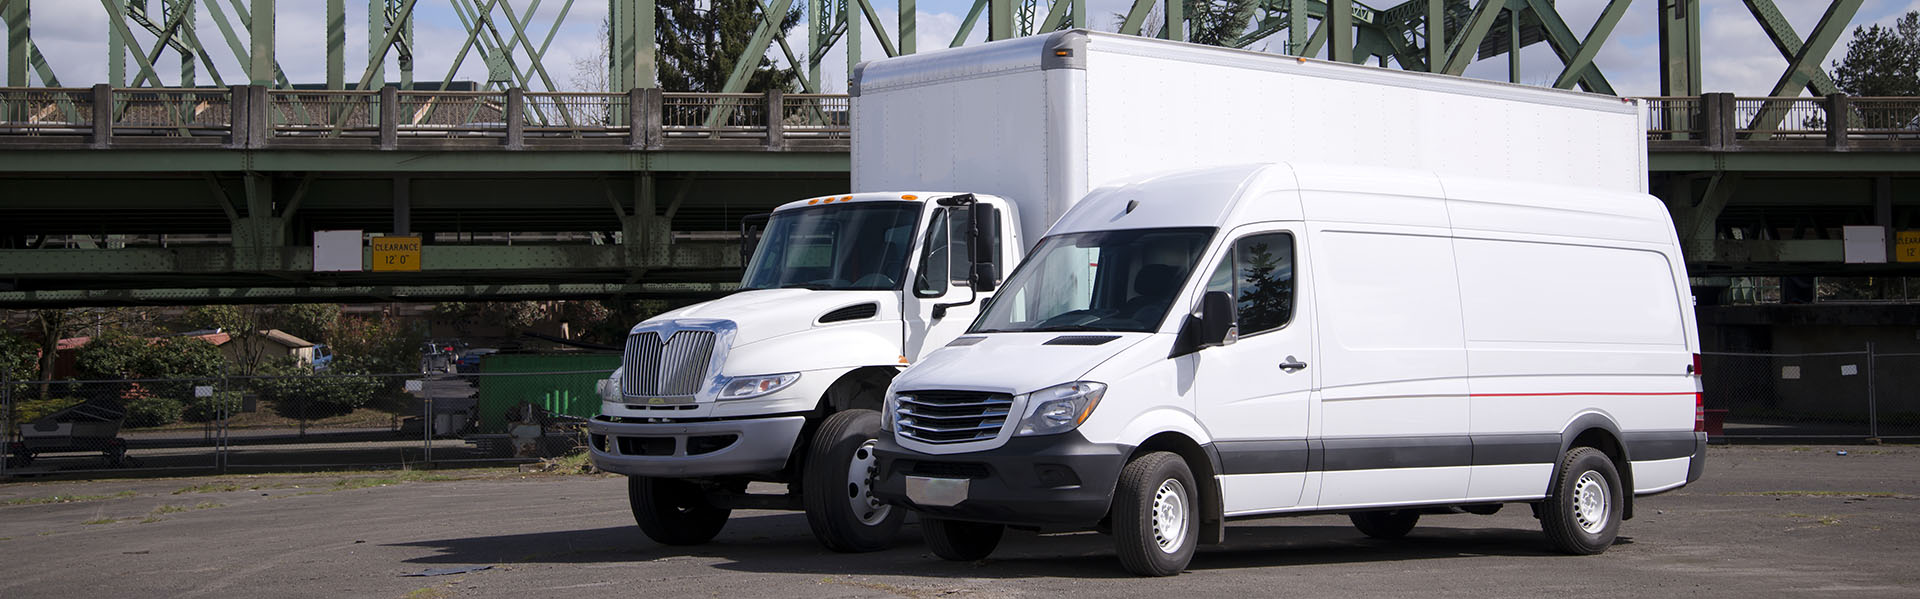
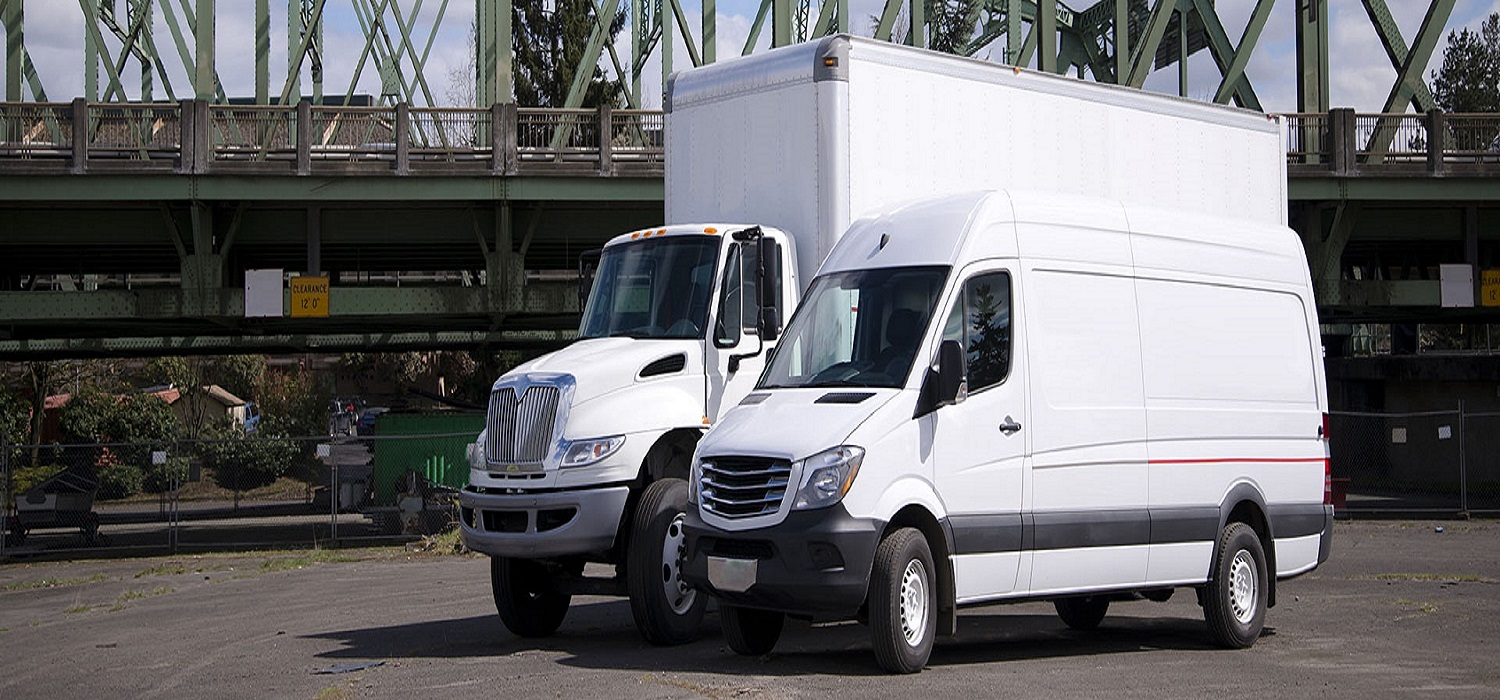
finish header and add carousel image

diff --git a/index.html b/index.html
@@ -4,7 +4,7 @@
     <meta charset="UTF-8">
     <meta name="viewport" content="width=device-width, initial-scale=1.0">
     <title>Benda Express</title>
-    <link src="./main.css" alt="stylesheet" >
+    <link rel="stylesheet" href="main.css">
     <link href="https://cdn.jsdelivr.net/npm/bootstrap@5.3.2/dist/css/bootstrap.min.css" rel="stylesheet" integrity="sha384-T3c6CoIi6uLrA9TneNEoa7RxnatzjcDSCmG1MXxSR1GAsXEV/Dwwykc2MPK8M2HN" crossorigin="anonymous">
 </head>
 <body>
@@ -15,9 +15,9 @@
             <img src="/media/Benda Express Logo background removed.png" alt="Bootstrap" width="250" height="100">
           </a>
           <ul class="navb">
-            <li>Home |</li>
-            <li>About |</li>
-            <li>Contact</li>
+            <li><a class="noDecoration" href="#">Home</a></li>
+            <li><a class="noDecoration" href="#">About</a></li>
+            <li><a class="noDecoration" href="#">Contact</a></li>
             
           </ul>
         </div>
@@ -26,7 +26,39 @@
     </header>
 
     <section>
-        
+      <div id="carouselExampleCaptions" class="carousel slide">
+        <div class="carousel-indicators">
+          <button type="button" data-bs-target="#carouselExampleCaptions" data-bs-slide-to="0" class="active" aria-current="true" aria-label="Slide 1"></button>
+          <button type="button" data-bs-target="#carouselExampleCaptions" data-bs-slide-to="1" aria-label="Slide 2"></button>
+          <button type="button" data-bs-target="#carouselExampleCaptions" data-bs-slide-to="2" aria-label="Slide 3"></button>
+        </div>
+        <div class="carousel-inner">
+          <div class="carousel-item active">
+            <img src="./media/Sprinter and Box truck.jpg" class="d-block w-100" alt="...">
+            <div class="carousel-caption d-none d-md-block">
+              <h5>First slide label</h5>
+              <p>Some representative placeholder content for the first slide.</p>
+            </div>
+          </div>
+          <div class="carousel-item">
+            <img src="./media/visit indinapolis.jpg" class="d-block w-100" alt="...">
+            <div class="carousel-caption d-none d-md-block">
+              <h5>Second slide label</h5>
+              <p>Some representative placeholder content for the second slide.</p>
+            </div>
+          </div>
+       
+        </div>
+        <button class="carousel-control-prev" type="button" data-bs-target="#carouselExampleCaptions" data-bs-slide="prev">
+          <span class="carousel-control-prev-icon" aria-hidden="true"></span>
+          <span class="visually-hidden">Previous</span>
+        </button>
+        <button class="carousel-control-next" type="button" data-bs-target="#carouselExampleCaptions" data-bs-slide="next">
+          <span class="carousel-control-next-icon" aria-hidden="true"></span>
+          <span class="visually-hidden">Next</span>
+        </button>
+      </div>
+
     </section>
     
 </body>

diff --git a/main.css b/main.css
@@ -1,3 +1,27 @@
-body {
-    background-color: black;
+header {
+    height: 143px;
+}
+.navb li {
+    display: inline;
+    padding: 6.3px;
+    margin: 5px;
+    color: white;
+    font-size: medium;
+    background-color: rgb(101, 176, 101);
+    cursor: pointer;
+    position: relative;
+    top: 20px;
+    right: 30px;
+}
+    /* change color on nav linka*/
+
+.navb li:hover {
+    background-color: rgb(50, 96, 50);
+}
+
+/* code below used to removed underline below a links from nav bar*/
+
+.noDecoration, a:link, a:visited {
+    text-decoration: none;
+    color: white;
 }
